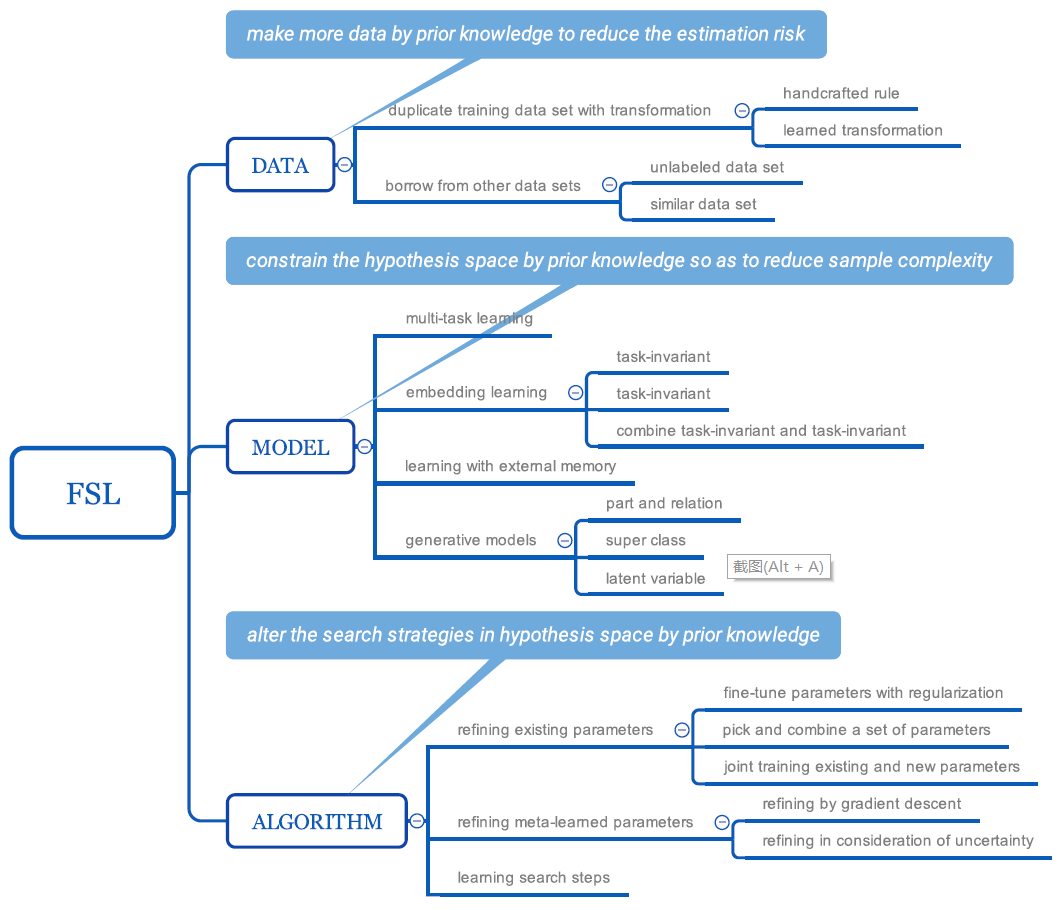
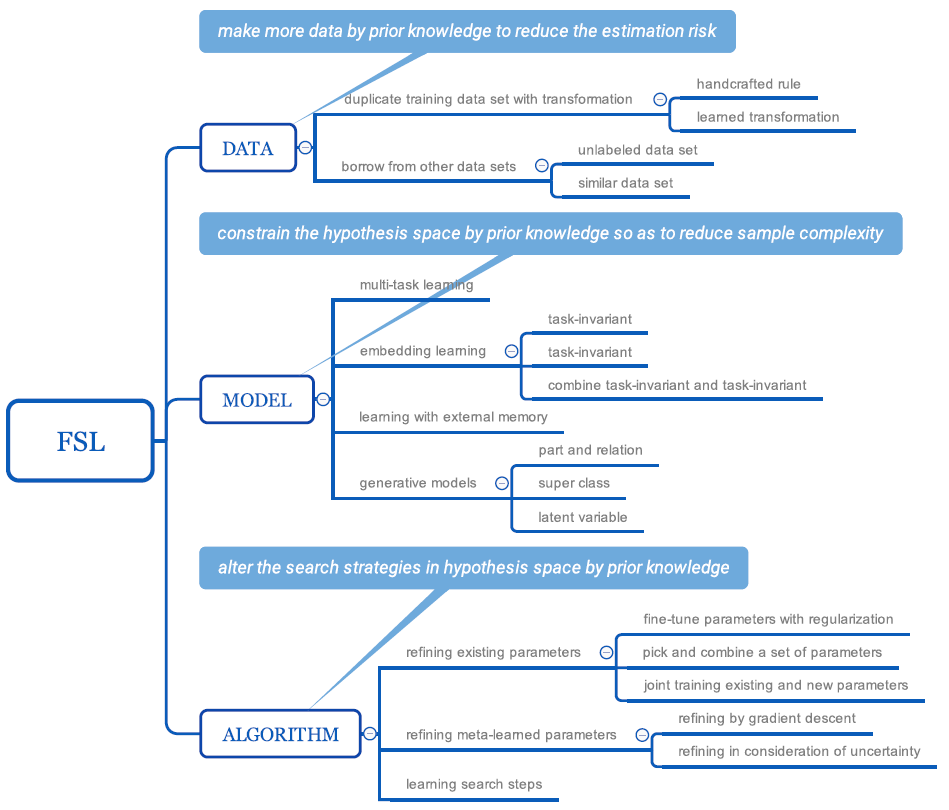
update

Changed region(s): [[0.0, 0.0309, 1.0, 1.0]]

diff --git a/Few Short Learning Summary.md b/Few Short Learning Summary.md
@@ -74,7 +74,7 @@ The empirical risk minimizer is no longer reliable (not good nor stable), this i
 </div>
 
 <div align="center">
-<img src="https://github.com/bifeng/nlp_paper_notes/raw/master/image/few_shot_learning_methods_taxonomy.png" width="800" height="300" alt="few_shot_learning_methods_taxonomy"></img>
+<img src="https://github.com/bifeng/nlp_paper_notes/raw/master/image/few_shot_learning_methods_taxonomy.png" width="800" height="500" alt="few_shot_learning_methods_taxonomy"></img>
 </div>
 
 #### Data
